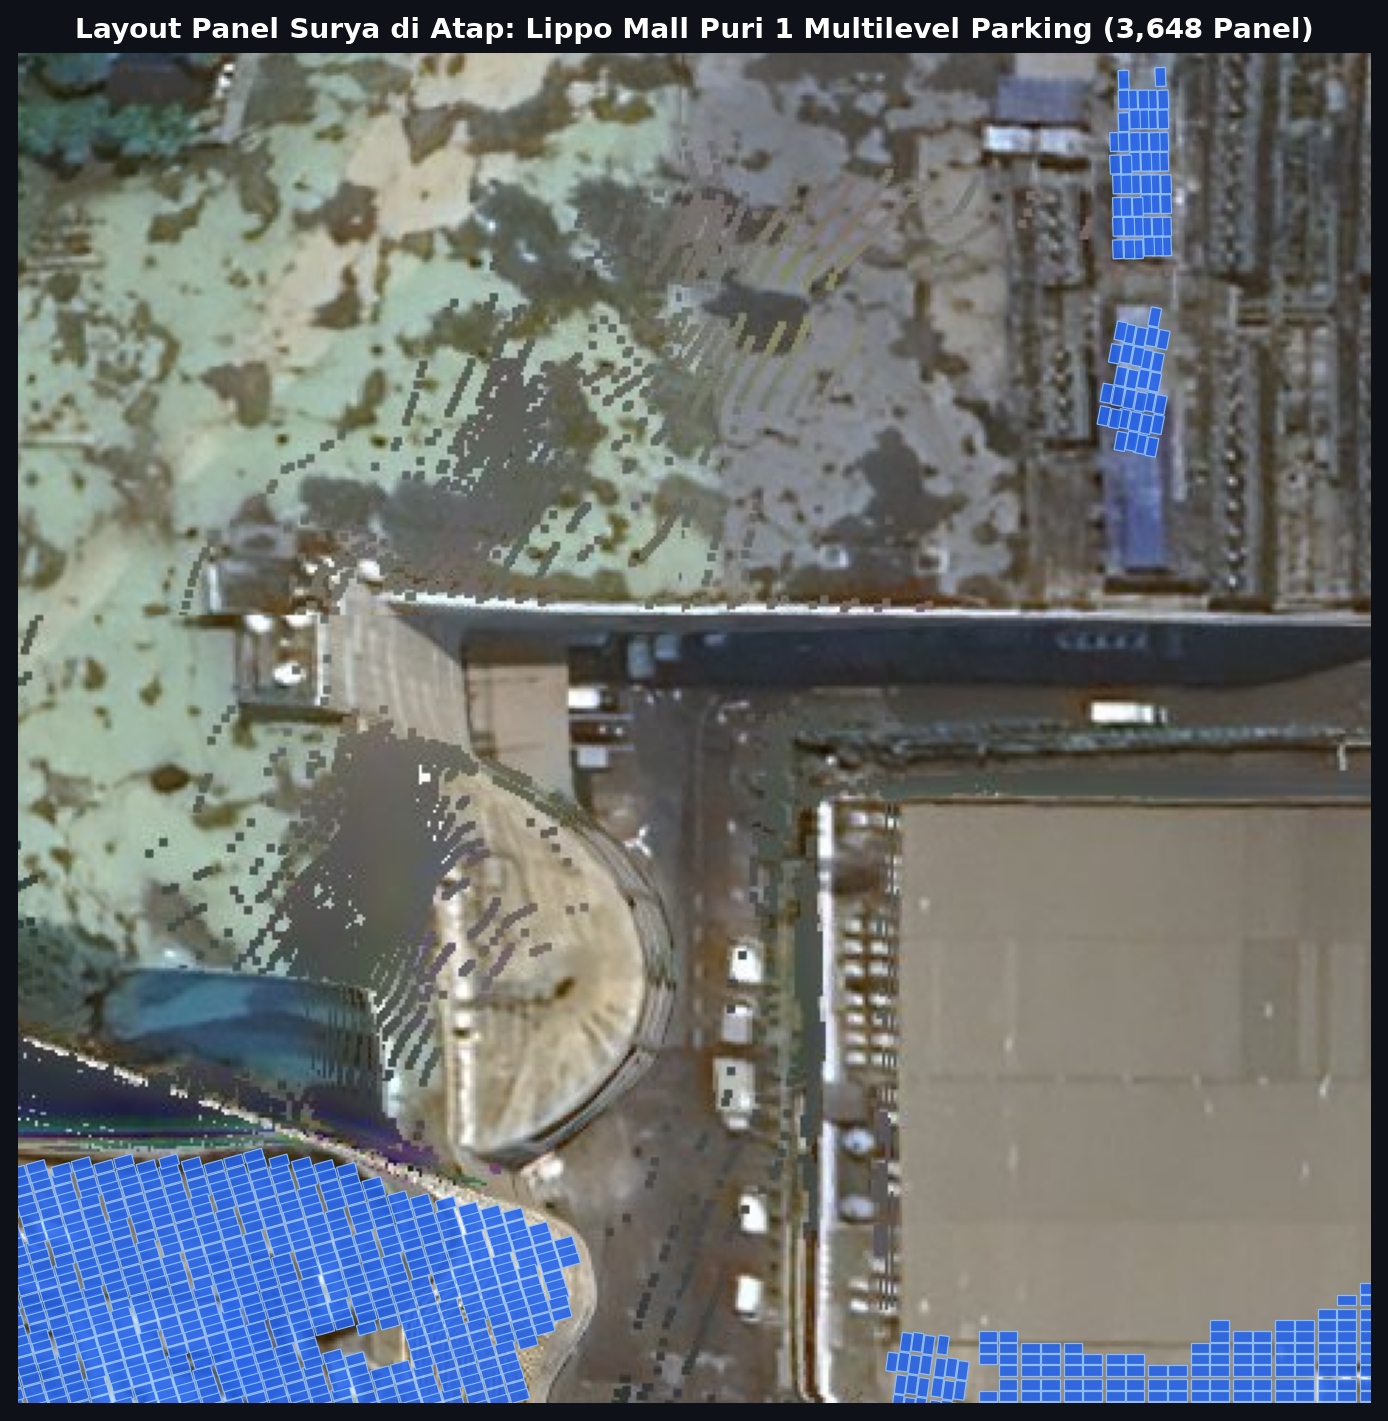
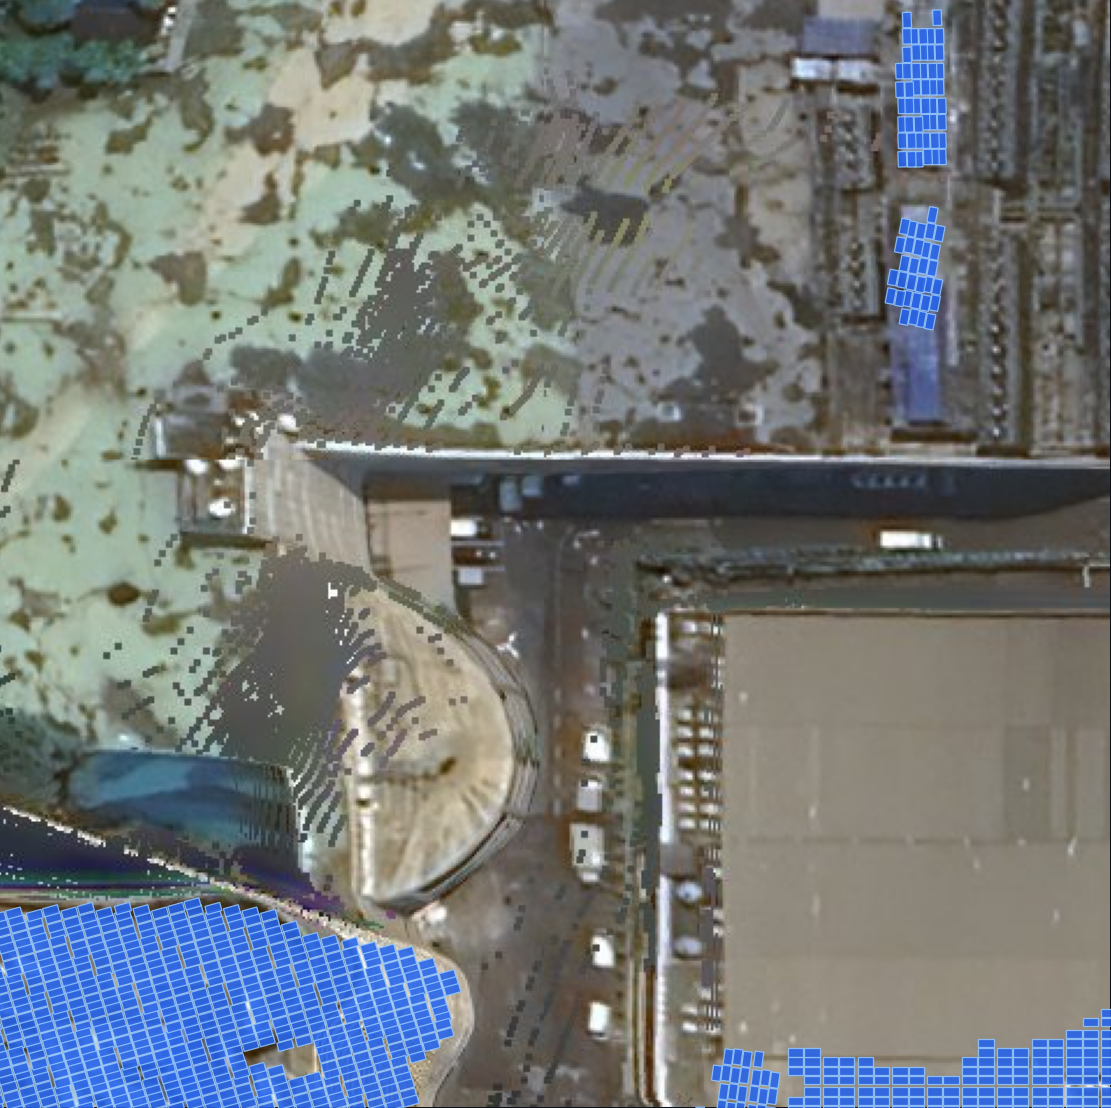
fix(dashboard): rapikan layout tab segmentasi atap tanpa teks bertumpuk dan pulihkan urutan tab

diff --git a/pages/1_Pemetaan_Potensi.py b/pages/1_Pemetaan_Potensi.py
@@ -164,23 +164,29 @@ with st.expander("Tabel Dropdown Seluruh Data 5 Titik Pilot (Master Data Layers 
         df_display_master = df_master.copy()
 
     master_table = df_display_master[[
-        "category_display", "asset_name", "city_regency",
-        "max_roof_area_m2", "total_segments", "active_segments",
+        "category_display", "asset_name", "city_regency", "postal_code",
+        "whole_roof_area_m2", "max_roof_area_m2", "roof_suitability_ratio_pct", "building_footprint_m2",
+        "total_segments", "active_segments",
         "max_panels_count", "installed_capacity_kwp",
-        "sunshine_hours_annual", "annual_generation_mwh", "prod_per_panel_kwh",
+        "sunshine_hours_annual", "google_dc_mwh", "annual_generation_mwh", "prod_per_panel_kwh",
         "carbon_offset_factor", "ghg_reduction_tons_co2",
         "spatial_drift_meters", "drift_status", "imagery_date", "res_tier", "google_building_id"
     ]].rename(columns={
         "category_display": "Kategori",
         "asset_name": "Infrastruktur",
         "city_regency": "Wilayah",
-        "max_roof_area_m2": "Luas Atap (m²)",
+        "postal_code": "Kode Pos",
+        "whole_roof_area_m2": "Total Fisik Atap (m²)",
+        "max_roof_area_m2": "Atap Layak PLTS (m²)",
+        "roof_suitability_ratio_pct": "Rasio Kelayakan (%)",
+        "building_footprint_m2": "Tapak Bangunan (m²)",
         "total_segments": "Total Segmen",
         "active_segments": "Segmen Terisi",
         "max_panels_count": "Total Panel (unit)",
         "installed_capacity_kwp": "Kapasitas (kWp)",
         "sunshine_hours_annual": "Jam Sinar (jam/thn)",
-        "annual_generation_mwh": "Listrik (MWh/thn)",
+        "google_dc_mwh": "Potensi DC Google (MWh)",
+        "annual_generation_mwh": "Listrik AC Bersih (MWh)",
         "prod_per_panel_kwh": "Rata² kWh/Panel",
         "carbon_offset_factor": "Faktor CO₂ (kg/MWh)",
         "ghg_reduction_tons_co2": "Reduksi CO₂ (Ton/thn)",
@@ -196,13 +202,18 @@ with st.expander("Tabel Dropdown Seluruh Data 5 Titik Pilot (Master Data Layers 
         use_container_width=True,
         hide_index=True,
         column_config={
-            "Luas Atap (m²)": st.column_config.NumberColumn(format="%.1f m²"),
+            "Kode Pos": st.column_config.TextColumn(),
+            "Total Fisik Atap (m²)": st.column_config.NumberColumn(format="%.1f m²"),
+            "Atap Layak PLTS (m²)": st.column_config.NumberColumn(format="%.1f m²"),
+            "Rasio Kelayakan (%)": st.column_config.NumberColumn(format="%.1f%%"),
+            "Tapak Bangunan (m²)": st.column_config.NumberColumn(format="%.1f m²"),
             "Total Segmen": st.column_config.NumberColumn(format="%d"),
             "Segmen Terisi": st.column_config.NumberColumn(format="%d"),
             "Total Panel (unit)": st.column_config.NumberColumn(format="%d"),
             "Kapasitas (kWp)": st.column_config.NumberColumn(format="%.1f kWp"),
             "Jam Sinar (jam/thn)": st.column_config.NumberColumn(format="%.0f jam"),
-            "Listrik (MWh/thn)": st.column_config.NumberColumn(format="%.1f MWh"),
+            "Potensi DC Google (MWh)": st.column_config.NumberColumn(format="%.1f MWh"),
+            "Listrik AC Bersih (MWh)": st.column_config.NumberColumn(format="%.1f MWh"),
             "Rata² kWh/Panel": st.column_config.NumberColumn(format="%.1f kWh"),
             "Faktor CO₂ (kg/MWh)": st.column_config.NumberColumn(format="%.2f kg"),
             "Reduksi CO₂ (Ton/thn)": st.column_config.NumberColumn(format="%.1f Ton"),
@@ -388,9 +399,10 @@ st.markdown(f"""
 """, unsafe_allow_html=True)
 
 # Tabs to explore all SKU layers (Text only, clean academic styling)
-tab_panels, tab_segments, tab_rgb, tab_flux, tab_dsm, tab_mask, tab_gallery = st.tabs([
-    "Layout Panel di Atap",
+# Tabs to explore all SKU layers (Text only, clean academic styling)
+tab_segments, tab_panels, tab_rgb, tab_flux, tab_dsm, tab_mask, tab_gallery = st.tabs([
     "Segmentasi Atap & Metodologi",
+    "Layout Panel di Atap",
     "Citra Satelit RGB",
     "Annual Solar Flux",
     "DSM 3D Elevasi",
@@ -400,41 +412,33 @@ tab_panels, tab_segments, tab_rgb, tab_flux, tab_dsm, tab_mask, tab_gallery = st
 
 with tab_segments:
     st.markdown("#### Metodologi Segmentasi Bidang 3D & Algoritma Penempatan Panel Google Solar API")
-    st.caption("Penjelasan teknis bagaimana Google Maps Platform memecah atap bangunan menjadi segmen geometris dan menempatkan modul fotovoltaik:")
+    st.caption("Penjelasan teknis bagaimana Google Maps Platform memecah atap bangunan menjadi segmen geometris planar dan menempatkan modul fotovoltaik:")
 
-    col_seg_vis, col_seg_cards = st.columns([1.3, 1.2])
-
-    with col_seg_vis:
-        st.markdown('##### Visualisasi Grid Segmen Bidang Atap (3D Planar Facets)')
-        st.caption('Setiap warna mewakili 1 segmen bidang datar homogen hasil ekstraksi algoritma 3D RANSAC:')
-        segments_img_rel = asset_row.get('preview_segments_png')
-        segments_img_path = get_clean_img_path(segments_img_rel)
-        if segments_img_path:
-            st.image(
-                segments_img_path,
-                caption=f"Peta Segmentasi Bidang Atap 3D: {asset_row['asset_name']} (Label S0, S1, ... menunjukkan indeks segmen)",
-                use_container_width=True
-            )
-        else:
-            st.warning('Visualisasi grid segmentasi atap belum tersedia.')
-
-    with col_seg_cards:
+    # 3 Methodology Pillar Cards across 3 Columns horizontally
+    c_m1, c_m2, c_m3 = st.columns(3)
+    with c_m1:
         st.markdown("""
-        <div style="background: #101726; border: 1px solid #1E293B; border-radius: 8px; padding: 14px; margin-bottom: 10px;">
-            <div style="color: #66BB6A; font-weight: 700; font-size: 0.95rem; margin-bottom: 4px;">1. Segmentasi 3D (RANSAC)</div>
-            <p style="color: #CBD5E1; font-size: 0.8rem; line-height: 1.5; margin: 0;">
+        <div style="background: #101726; border: 1px solid #1E293B; border-radius: 8px; padding: 16px; min-height: 170px;">
+            <div style="color: #66BB6A; font-weight: 700; font-size: 0.95rem; margin-bottom: 6px;">1. Segmentasi 3D (RANSAC)</div>
+            <p style="color: #CBD5E1; font-size: 0.82rem; line-height: 1.5; margin: 0;">
                 Google memproses point cloud elevasi <strong>Digital Surface Model (DSM)</strong> menggunakan algoritma <em>Random Sample Consensus (RANSAC)</em> untuk mendeteksi bidang datar homogen (<em>planar facets</em>). Setiap segmen memiliki kemiringan (<em>pitch</em>) dan arah hadap (<em>azimuth</em>) seragam.
             </p>
         </div>
-        <div style="background: #101726; border: 1px solid #1E293B; border-radius: 8px; padding: 14px; margin-bottom: 10px;">
-            <div style="color: #66BB6A; font-weight: 700; font-size: 0.95rem; margin-bottom: 4px;">2. Filter Rintangan & Ambang Batas</div>
-            <p style="color: #CBD5E1; font-size: 0.8rem; line-height: 1.5; margin: 0;">
-                Model 3D mendeteksi cerobong, ventilasi AC, tangga, dan kubah kaca sebagai rintangan fisik (<em>obstacles</em>). Google menetapkan syarat mutlak: bidang harus memiliki ruang bersih minimal <strong>4 m²</strong> dan menampung minimal <strong>4 modul panel bersebelahan (contiguous)</strong>. Area sempit otomatis dieliminasi.
+        """, unsafe_allow_html=True)
+    with c_m2:
+        st.markdown("""
+        <div style="background: #101726; border: 1px solid #1E293B; border-radius: 8px; padding: 16px; min-height: 170px;">
+            <div style="color: #66BB6A; font-weight: 700; font-size: 0.95rem; margin-bottom: 6px;">2. Filter Rintangan & Ambang Batas</div>
+            <p style="color: #CBD5E1; font-size: 0.82rem; line-height: 1.5; margin: 0;">
+                Model 3D mendeteksi cerobong, ventilasi AC, tangga, dan kubah kaca sebagai rintangan fisik (<em>obstacles</em>). Syarat mutlak: bidang harus memiliki ruang bersih minimal <strong>4 m²</strong> dan menampung minimal <strong>4 modul bersebelahan (contiguous)</strong>. Area sempit otomatis dieliminasi.
             </p>
         </div>
-        <div style="background: #101726; border: 1px solid #1E293B; border-radius: 8px; padding: 14px;">
-            <div style="color: #66BB6A; font-weight: 700; font-size: 0.95rem; margin-bottom: 4px;">3. Optimasi Penataan (Greedy)</div>
-            <p style="color: #CBD5E1; font-size: 0.8rem; line-height: 1.5; margin: 0;">
+        """, unsafe_allow_html=True)
+    with c_m3:
+        st.markdown("""
+        <div style="background: #101726; border: 1px solid #1E293B; border-radius: 8px; padding: 16px; min-height: 170px;">
+            <div style="color: #66BB6A; font-weight: 700; font-size: 0.95rem; margin-bottom: 6px;">3. Optimasi Penataan (Greedy)</div>
+            <p style="color: #CBD5E1; font-size: 0.82rem; line-height: 1.5; margin: 0;">
                 Setelah bidang segmen terbentuk, Google menggunakan <em>greedy placement algorithm</em> untuk menata modul surya. Posisi panel diurutkan berdasarkan estimasi produksi energi tahunan tertinggi (kWh) serta mengutamakan keterikatan susunan baris-kolom (<em>spatial contiguity</em>).
             </p>
         </div>
@@ -442,37 +446,59 @@ with tab_segments:
 
     st.markdown("<br>", unsafe_allow_html=True)
 
-    st.markdown(f"""
-    <div style="background: #0E1626; border-left: 4px solid #66BB6A; padding: 14px 16px; border-radius: 6px; margin-bottom: 20px;">
-        <strong style="color: #ECEFF1; font-size: 0.95rem;">Mengapa Muncul Celah (Gap) pada Visualisasi Atap Bangunan Besar?</strong>
-        <p style="color: #94A3B8; font-size: 0.83rem; line-height: 1.6; margin: 6px 0 0 0;">
-            Pada bangunan infrastruktur perkotaan seperti stasiun dan gedung parkir superblok, celah penempatan modul terjadi karena tiga faktor rekayasa:
-            <br>1. <strong>Multi-Segmen & Perbedaan Ketinggian:</strong> Atap terpecah menjadi puluhan bidang dengan elevasi berbeda. Celah antara bidang (misalnya lembah talang air atau sambungan ekspansi) tidak memenuhi syarat bidang datar RANSAC.
-            <br>2. <strong>Bukaan Pencahayaan Alami (Skylight):</strong> Kanopi kaca atau membran transparan memanjang (seperti pada jalur peron Stasiun Manggarai dan Stasiun Dukuh Atas) sengaja dikecualikan oleh model AI Google dari pemasangan modul fotovoltaik.
-            <br>3. <strong>Batas Bingkai Citra Satelit:</strong> Kompleks bangunan besar (seperti Stasiun Manggarai bentang 163 m atau Lippo Mall Puri bentang 260 m) melampaui jendela radius pengambilan citra 60 meter (120 m × 120 m), sehingga sebagian panel berada di dek atap yang terpotong batas bingkai.
-        </p>
-    </div>
-    """, unsafe_allow_html=True)
+    # 2-Column Section: Left for Grid Segments Image, Right for Gap Explanation & Segment Stats
+    col_seg_vis, col_seg_info = st.columns([1.2, 1.0])
+
+    with col_seg_vis:
+        st.markdown("##### Visualisasi Poligon Bidang Segmen Atap")
+        st.caption("Peta kelompok poligon segmen atap 3D (setiap warna poligon mewakili satu bidang orientasi/kemiringan homogen):")
+        segments_img_rel = asset_row.get("preview_segments_png")
+        segments_img_path = get_clean_img_path(segments_img_rel)
+        if segments_img_path:
+            st.image(
+                segments_img_path,
+                caption=f"Visualisasi Grid Poligon Segmen Atap: {asset_row['asset_name']}",
+                use_container_width=True
+            )
+        else:
+            st.warning("Visualisasi grid segmentasi atap belum tersedia.")
+
+    with col_seg_info:
+        if not df_segments.empty:
+            curr_segs = df_segments[df_segments["asset_name"] == asset_row["asset_name"]].copy()
+            if not curr_segs.empty:
+                total_segs = len(curr_segs)
+                active_segs = len(curr_segs[curr_segs["panels_count"] > 0])
+                total_seg_area = curr_segs["area_m2"].sum()
+
+                st.markdown("##### Karakteristik Geometri Atap")
+                st.markdown(f"""
+                * **Total Bidang Segmen Terdeteksi:** `{total_segs} bidang`
+                * **Segmen Layak PLTS Terisi:** `{active_segs} bidang ({active_segs/total_segs*100:.0f}% utilisasi)`
+                * **Total Luas Bidang Segmen:** `{total_seg_area:,.1f} m²`
+                * **Total Modul di Seluruh Segmen:** `{curr_segs['panels_count'].sum():,} unit`
+                """)
+
+        st.markdown(f"""
+        <div style="background: #0E1626; border-left: 4px solid #66BB6A; padding: 14px 16px; border-radius: 6px; margin-top: 10px;">
+            <strong style="color: #ECEFF1; font-size: 0.92rem;">Mengapa Muncul Celah (Gap) pada Visualisasi Atap Bangunan Besar?</strong>
+            <p style="color: #94A3B8; font-size: 0.82rem; line-height: 1.55; margin: 6px 0 0 0;">
+                Pada bangunan infrastruktur perkotaan seperti stasiun dan gedung parkir superblok, celah penempatan modul terjadi karena tiga faktor rekayasa:
+                <br>1. <strong>Multi-Segmen & Perbedaan Ketinggian:</strong> Atap terpecah menjadi puluhan bidang dengan elevasi berbeda. Celah antara bidang (misalnya lembah talang air atau sambungan ekspansi) tidak memenuhi syarat bidang datar RANSAC.
+                <br>2. <strong>Bukaan Pencahayaan Alami (Skylight):</strong> Kanopi kaca atau membran transparan memanjang (seperti pada jalur peron Stasiun Manggarai dan Stasiun Dukuh Atas) sengaja dikecualikan oleh model AI Google dari pemasangan modul fotovoltaik.
+                <br>3. <strong>Batas Bingkai Citra Satelit:</strong> Kompleks bangunan besar (seperti Stasiun Manggarai bentang 163 m atau Lippo Mall Puri bentang 260 m) melampaui jendela radius pengambilan citra 60 meter (120 m × 120 m), sehingga sebagian panel berada di dek atap yang terpotong batas bingkai.
+            </p>
+        </div>
+        """, unsafe_allow_html=True)
+
+    st.markdown("<br>", unsafe_allow_html=True)
 
     if not df_segments.empty:
         curr_segs = df_segments[df_segments["asset_name"] == asset_row["asset_name"]].copy()
         if not curr_segs.empty:
             total_segs = len(curr_segs)
-            active_segs = len(curr_segs[curr_segs["panels_count"] > 0])
-            total_seg_area = curr_segs["area_m2"].sum()
-
             st.markdown(f"#### Rincian Data Segmen Atap: {asset_row['asset_name']} ({total_segs} Segmen)")
             st.caption("Data spesifikasi geometris setiap bidang atap yang diekstrak langsung dari field `roofSegmentStats` Google Solar API:")
-
-            sm1, sm2, sm3, sm4 = st.columns(4)
-            with sm1:
-                st.metric("Total Segmen Atap Terdeteksi", f"{total_segs} segmen")
-            with sm2:
-                st.metric("Segmen Layak PLTS Terisi", f"{active_segs} segmen", f"{active_segs/total_segs*100:.0f}% terutilisasi")
-            with sm3:
-                st.metric("Total Luas Bidang Segmen", f"{total_seg_area:,.1f} m²")
-            with sm4:
-                st.metric("Total Modul di Seluruh Segmen", f"{curr_segs['panels_count'].sum():,} unit")
 
             display_segs = curr_segs[[
                 "segment_index", "pitch_degrees", "azimuth_degrees", "azimuth_direction",

diff --git a/tools/solarapi/process_pow_etl.py b/tools/solarapi/process_pow_etl.py
@@ -148,11 +148,11 @@ def generate_all_sku_previews(aid, cat, asset_name, bi_data, rgb_tif_path, dsm_t
                     )
                     ax.add_patch(poly)
 
-                ax.set_title(f"Layout Panel Surya di Atap: {asset_name} ({len(panels):,} Panel)", fontsize=11, fontweight="bold", color="white")
+                ax.set_xlim(0, src.width)
+                ax.set_ylim(src.height, 0)
                 ax.axis("off")
                 fig.patch.set_facecolor("#0E1117")
-                fig.tight_layout()
-                fig.savefig(str(panels_png_path.resolve()), facecolor=fig.get_facecolor(), bbox_inches="tight")
+                fig.savefig(str(panels_png_path.resolve()), facecolor=fig.get_facecolor(), bbox_inches="tight", pad_inches=0)
                 plt.close(fig)
                 out_paths["preview_panels_png"] = str(panels_png_path.relative_to(PROJECT_ROOT))
         except Exception as e:
@@ -240,7 +240,6 @@ def generate_all_sku_previews(aid, cat, asset_name, bi_data, rgb_tif_path, dsm_t
 
                 for s_idx, pts in seg_points.items():
                     color = cmap(s_idx % 20)
-                    seg = segs[s_idx]
 
                     if len(pts) >= 3:
                         pts_arr = np.array(pts)
@@ -249,8 +248,8 @@ def generate_all_sku_previews(aid, cat, asset_name, bi_data, rgb_tif_path, dsm_t
                             hull_pts = pts_arr[hull.vertices]
                             poly = Polygon(
                                 hull_pts, closed=True,
-                                facecolor=color, edgecolor="white",
-                                alpha=0.35, linewidth=1.4, linestyle="--"
+                                facecolor=color, edgecolor=color,
+                                alpha=0.42, linewidth=1.8
                             )
                             ax.add_patch(poly)
                         except Exception:
@@ -259,24 +258,11 @@ def generate_all_sku_previews(aid, cat, asset_name, bi_data, rgb_tif_path, dsm_t
                     for px, py in pts:
                         ax.plot(px, py, marker="s", markersize=2, color=color, alpha=0.85)
 
-                    c = seg.get("center", {})
-                    if "longitude" in c:
-                        ux, uy = transformer.transform(c["longitude"], c["latitude"])
-                        cy, cx = src.index(ux, uy)
-                        p_cnt = len(pts)
-                        if p_cnt > 0:
-                            label = f"S{s_idx} ({p_cnt}p)"
-                            ax.text(
-                                cx, cy, label, fontsize=7, fontweight="bold", color="white",
-                                bbox=dict(boxstyle="round,pad=0.2", facecolor="black", edgecolor=color, alpha=0.85, linewidth=1.2),
-                                ha="center", va="center"
-                            )
-
-                ax.set_title(f"Grid Segmentasi Atap 3D: {asset_name} ({len(segs)} Segmen)", fontsize=11, fontweight="bold", color="white")
+                ax.set_xlim(0, src.width)
+                ax.set_ylim(src.height, 0)
                 ax.axis("off")
                 fig.patch.set_facecolor("#0E1117")
-                fig.tight_layout()
-                fig.savefig(str(segments_png_path.resolve()), facecolor=fig.get_facecolor(), bbox_inches="tight")
+                fig.savefig(str(segments_png_path.resolve()), facecolor=fig.get_facecolor(), bbox_inches="tight", pad_inches=0)
                 plt.close(fig)
                 out_paths["preview_segments_png"] = str(segments_png_path.relative_to(PROJECT_ROOT))
         except Exception as e:
@@ -381,6 +367,19 @@ def process_targets():
         sunshine_hours = float(sp.get("maxSunshineHoursPerYear", 0.0))
         co2_factor = float(sp.get("carbonOffsetFactorKgPerMwh", 808.999))
 
+        # Additional Google Solar API Native Metrics (Maximize RAB return)
+        wr = sp.get("wholeRoofStats", {})
+        whole_roof_area = float(wr.get("areaMeters2", 0.0))
+        suitability_ratio = round((max_roof_area / whole_roof_area * 100), 1) if whole_roof_area > 0 else 0.0
+        
+        configs = sp.get("solarPanelConfigs", [])
+        google_dc_kwh = float(configs[-1].get("yearlyEnergyDcKwh", 0.0)) if configs else 0.0
+        google_dc_mwh = round(google_dc_kwh / 1000.0, 2)
+        
+        bs = sp.get("buildingStats", {})
+        building_footprint = float(bs.get("areaMeters2", 0.0))
+        postal_code = bi_data.get("postalCode", "")
+
         # CELIOS Formulas
         panel_wp = 400
         capacity_kwp = (max_panels * panel_wp) / 1000.0
@@ -406,6 +405,7 @@ def process_targets():
             "category": cat,
             "category_display": t["category_display"],
             "city_regency": t["city_regency"],
+            "postal_code": postal_code,
             "source_raw_file": t["source_raw_file"],
             "raw_lat": t["raw_lat"],
             "raw_lon": t["raw_lon"],
@@ -416,11 +416,15 @@ def process_targets():
             "drift_status": drift_status,
             "imagery_date": imagery_date,
             "quality_tier": "BASE",
-            "max_panels_count": max_panels,
+            "whole_roof_area_m2": round(whole_roof_area, 2),
             "max_roof_area_m2": round(max_roof_area, 2),
+            "roof_suitability_ratio_pct": suitability_ratio,
+            "building_footprint_m2": round(building_footprint, 2),
+            "max_panels_count": max_panels,
             "sunshine_hours_annual": round(sunshine_hours, 2),
             "panel_capacity_wp": panel_wp,
             "installed_capacity_kwp": round(capacity_kwp, 2),
+            "google_dc_mwh": google_dc_mwh,
             "annual_generation_kwh": round(annual_gen_kwh, 2),
             "annual_generation_mwh": round(annual_gen_mwh, 2),
             "carbon_offset_factor": round(co2_factor, 2),
